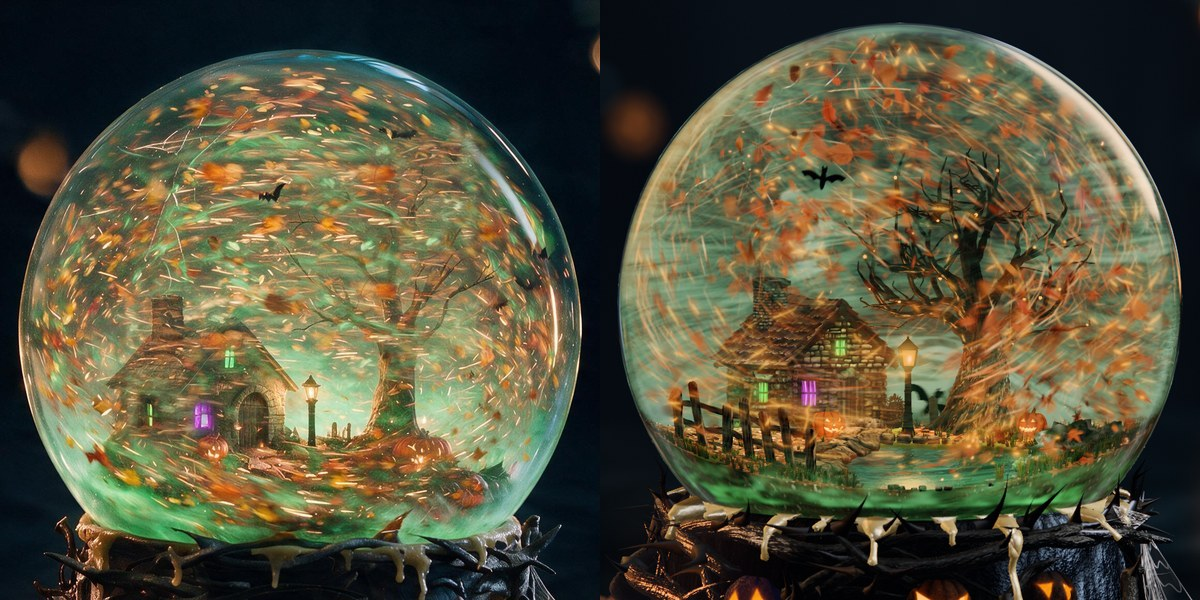
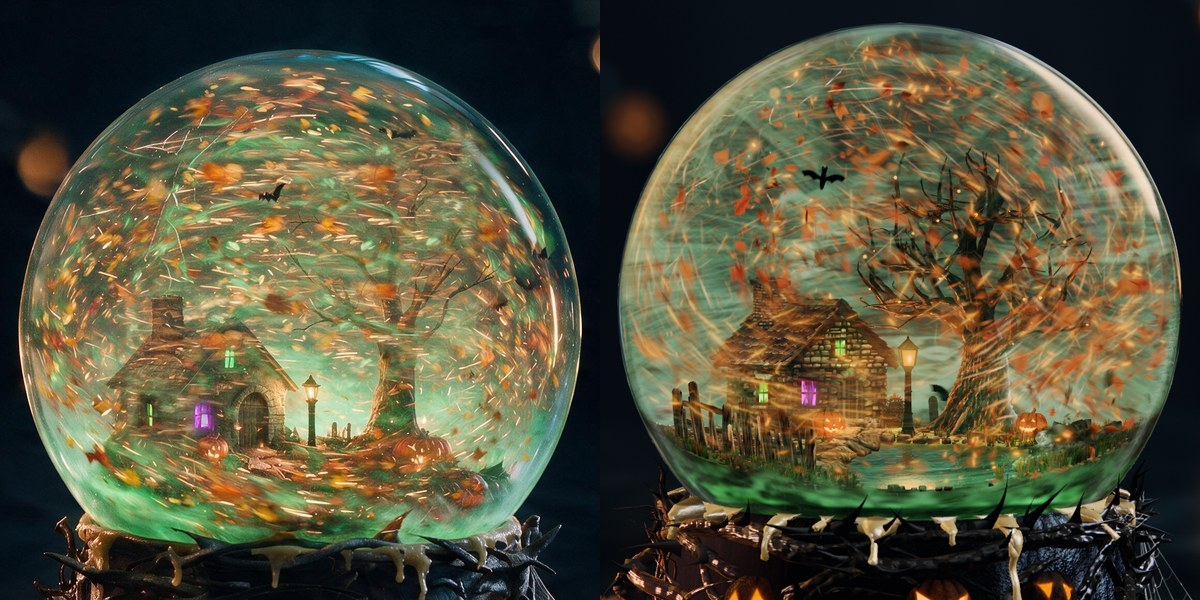
Looks of the sixth list: the rest pair, the upper left pair, the trio, the landed pair

diff --git a/HANDOVER.md b/HANDOVER.md
@@ -47,3 +47,21 @@ How: `leafRestMm` [0.9, 1.8, 6]; `leafRestPx` 11 caps a leaf's half length at re
 The open air (aligned pair, medians, approved then before then after): upper right 62 68 65, 41 52 48, 46 48 49; right of the tree 50 49 47, 38 60 47, 52 53 48; upper left 64 55 42, 57 68 51, 66 59 52; low right 101 123 90, 74 102 70, 86 99 72. It is the mist of `glass.ts` (mine by grant): `mistTop`, `mistLow`, `mistHigh`. `mistHigh` moved nothing that I could read.
 
 Open: the approved holds more leaves; upper right and low right are still short of the approved's red; the smallest orange class rose 318 to 396 with this list.
+
+## Sixth list: the band, the near discs, the small sparks, the low glow (10ea1ac5)
+
+The band by the left rim (hd x 640 to 710, y 400 to 510) was found by taking each layer off in turn: the low mist 4 levels, the ground fog 2, the fog's back haze (`look.fog.haze` in `glass.ts`) 27; the ring cover, the rim tint, the wall tint, the arcs, the air's dust and the lights' dust none. Mended by the haze's height: `hazeMm` 12 to 4.8, `hazeLumpMm` 16 to 7, `haze` 0.016 to 0.036 so the low part keeps its light. Median 72 (70 73 60) to 55 (52 57 48); the approved 57 (55 57 54).
+
+The low glow behind the cottage (x 986 to 1049, y 478 to 579): 96 100 76 to 115 125 96; the approved 127 143 104. It comes from the low standing part of the mist only: `mistStand` 2.4 multiplies the standing term of the density, `mistLow` is green, `mistLowFrom` keeps that colour to where the mist stands. `mistMm` at 22 lifted the open air and was taken back out.
+
+The near discs. The approved's widest, by the radius where the level falls half way to the ground, at hd: 50 px at (905,155), 44 at (1222,298), 26 at (808,256), 26 at (691,308), 24 at (737,229); then 22, 18. Faces 125 83 46 to 209 121 58 over a ground near 55 54 45. Mine: 28, 28, 26, 24, 22, then 18, 18, 16; faces near 175 103 57. About ten in the upper half: six at the upper left, one at the top, three at the right, none over the cottage's face (`nearField`, `nearRightAt`, `nearCottage`). A disc's blur is `nearC` times `nearPx` mixed by a hash to the power `nearSkew`. Four trials of `nearPx` and `nearSkew` did not move the widths; by my reckoning, not proven by a trial, the four ranges all gave near 14 px at the middle of the hash. The approved's two widest (44 and 50) are not matched: the step I would try next is a long top to the range (`nearPx` [10, 40] with `nearSkew` 3).
+
+The smallest orange class (1 to 3 px of the aligned pair, r over 120, r over 1.3 g, g over 1.3 b): 396 to 308; the approved 206. By region mine then the approved's: rim 45, 33; roof 32, 10; tree 102, 61; air 129, 102. With the whole air off the scene alone counted 151 (rim 27, roof 20, tree 67, air 37), read before the base's ninth push. Its colour: the approved 137 90 64, mine 135 95 65. Many of mine are the hot middles of larger sparks, where only a few pixels pass the orange test. The count moves with the ground behind the sparks: the same sparks read 295 on a lifted air and 346 on the lowered one.
+
+The upper air with discs, leaves and sparks masked, aligned pair, medians r g b (luma), the approved then mine: upper left 42 52 44 (49), 56 55 52 (55); top middle 41 51 51 (48), 47 49 49 (48); upper right 45 59 63 (57), 47 49 50 (48). The mask takes 12 percent of the approved's upper left and 32 percent of mine and still leaves dim discs and halos in. Taking layers off at draft, upper left, top, upper right: all on 46, 48, 44; mist off 34, 36, 35; the fog's haze off 41, 46, 41; the air's dust off 46, 48, 43; the whole air off 28, 33, 33.
+
+The leaves. The counter (`/tmp/w/s4/leafcount2.py`, not in the repo) reads the approved 9, 12, 6 in the three boxes; mine before 15, 19, 20, now 14, 12, 18. It takes the scene's own orange for leaves: with the air off it reads 2, 0, 8. By eye at three times the fence's box holds about five in the approved and about seven in mine. `leafRestShare` 0.95 to 0.8; `leafRestFence` thins the leaves low by the fence at rest.
+
+Open: the two widest discs; the low glow is 12, 18, 8 short; the smallest class is 100 over, of which the scene's own share is the larger part; the upper left's red stands 14 over the approved's; the approved's air has green patches in the middle height that mine does not.
+
+Not seen in this list: anything in motion. The storm was seen only as the landed still.
